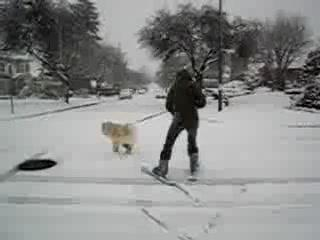
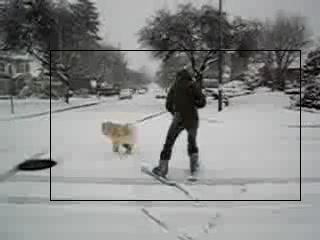
change box color

Changed region(s): [[0.1562, 0.8167, 0.9375, 0.8458], [0.1562, 0.2042, 0.9375, 0.2333]]

diff --git a/draw_bbx.py b/draw_bbx.py
@@ -18,8 +18,11 @@ for i in range(num_images):
 			prob = float(elem[1])
 			x1 = int(elem[2])
 			y1 = int(elem[3])
-			x2 = int(elem[2])
-			y2 = int(elem[3])
-			draw.rectangle(((x1, y1), (x2, y2)), fill="black")
+			x2 = int(elem[4])
+			y2 = int(elem[5])
+			if a_cls == 24:
+				draw.rectangle(((x1, y1), (x2, y2)), outline="green")
+			else:
+				draw.rectangle(((x1, y1), (x2, y2)), outline="red")
 	save_path = os.path.join(out_dir, '%05d.jpg' % (i+1))
 	img.save(save_path)
